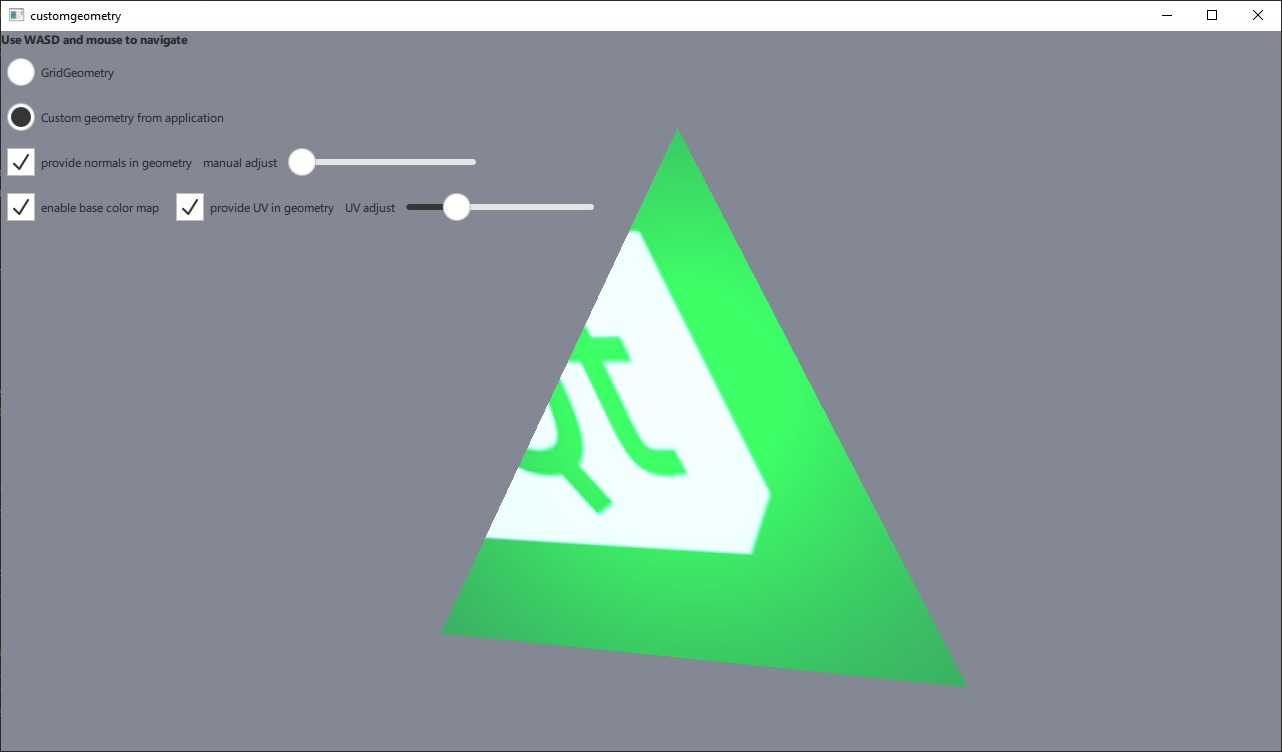
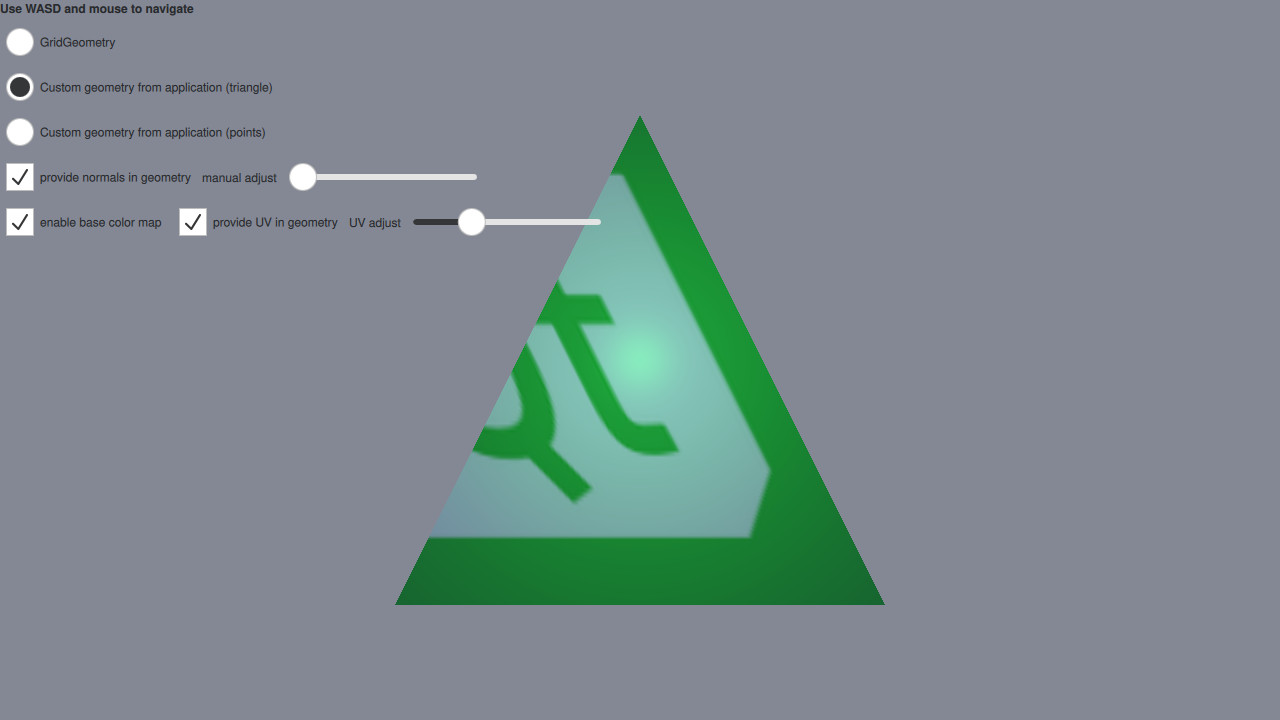
doc: improve customgeometry example
- add more text
- rename variables
- update image

Changed region(s): [[0.0, 0.0, 1.0, 0.9167]]

diff --git a/examples/quick3d/customgeometry/main.qml b/examples/quick3d/customgeometry/main.qml
@@ -99,6 +99,7 @@ Window {
             ]
         }
 
+        //! [model triangle]
         Model {
             visible: radioCustGeom.checked
             scale: Qt.vector3d(100, 100, 100)
@@ -120,6 +121,7 @@ Window {
                 }
             ]
         }
+        //! [model triangle]
 
         Model {
             visible: radioPointGeom.checked

diff --git a/examples/quick3d/customgeometry/examplegeometry.cpp b/examples/quick3d/customgeometry/examplegeometry.cpp
@@ -100,7 +100,7 @@ void ExampleTriangleGeometry::setUVAdjust(float f)
     update();
 }
 
-
+//! [update data]
 void ExampleTriangleGeometry::updateData()
 {
     clear();
@@ -111,9 +111,8 @@ void ExampleTriangleGeometry::updateData()
     if (m_hasUV)
         stride += 2 * sizeof(float);
 
-    QByteArray v;
-    v.resize(3 * stride);
-    float *p = reinterpret_cast<float *>(v.data());
+    QByteArray vertexData(3 * stride, Qt::Initialization::Uninitialized);
+    float *p = reinterpret_cast<float *>(vertexData.data());
 
     // a triangle, front face = counter-clockwise
     *p++ = -1.0f; *p++ = -1.0f; *p++ = 0.0f;
@@ -138,7 +137,7 @@ void ExampleTriangleGeometry::updateData()
         *p++ = 1.0f - m_uvAdjust; *p++ = 1.0f - m_uvAdjust;
     }
 
-    setVertexData(v);
+    setVertexData(vertexData);
     setStride(stride);
 
     setPrimitiveType(QQuick3DGeometry::PrimitiveType::Triangles);
@@ -159,8 +158,7 @@ void ExampleTriangleGeometry::updateData()
                      QQuick3DGeometry::Attribute::F32Type);
     }
 }
-
-
+//! [update data]
 
 ExamplePointGeometry::ExamplePointGeometry()
 {
@@ -171,15 +169,14 @@ void ExamplePointGeometry::updateData()
 {
     clear();
 
-    const int N = 2000;
+    constexpr int NUM_POINTS = 2000;
+    constexpr int stride = 3 * sizeof(float);
 
-    const int stride = 3 * sizeof(float);
+    QByteArray vertexData;
+    vertexData.resize(NUM_POINTS * stride);
+    float *p = reinterpret_cast<float *>(vertexData.data());
 
-    QByteArray v;
-    v.resize(N * stride);
-    float *p = reinterpret_cast<float *>(v.data());
-
-    for (int i = 0; i < N; ++i) {
+    for (int i = 0; i < NUM_POINTS; ++i) {
         const float x = float(QRandomGenerator::global()->bounded(200.0f) - 100.0f) / 20.0f;
         const float y = float(QRandomGenerator::global()->bounded(200.0f) - 100.0f) / 20.0f;
         *p++ = x;
@@ -187,7 +184,7 @@ void ExamplePointGeometry::updateData()
         *p++ = 0.0f;
     }
 
-    setVertexData(v);
+    setVertexData(vertexData);
     setStride(stride);
 
     setPrimitiveType(QQuick3DGeometry::PrimitiveType::Points);

diff --git a/examples/quick3d/customgeometry/examplegeometry.h b/examples/quick3d/customgeometry/examplegeometry.h
@@ -53,6 +53,7 @@
 
 #include <QQuick3DGeometry>
 
+//! [triangle geometry]
 class ExampleTriangleGeometry : public QQuick3DGeometry
 {
     Q_OBJECT
@@ -91,6 +92,7 @@ private:
     bool m_hasUV = false;
     float m_uvAdjust = 0.0f;
 };
+//! [triangle geometry]
 
 class ExamplePointGeometry : public QQuick3DGeometry
 {
